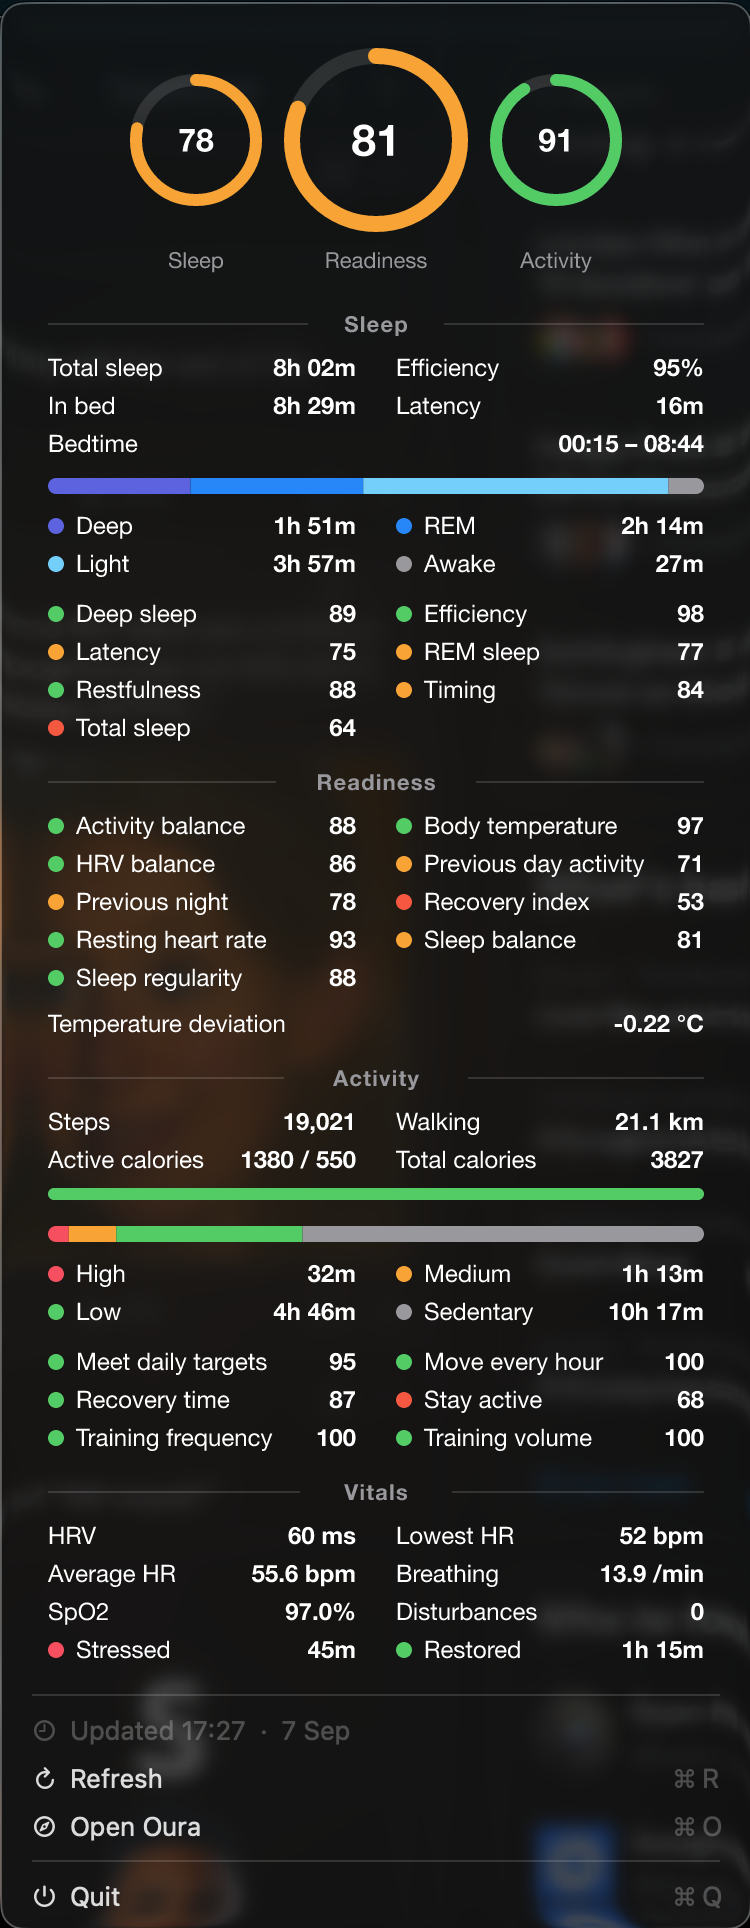
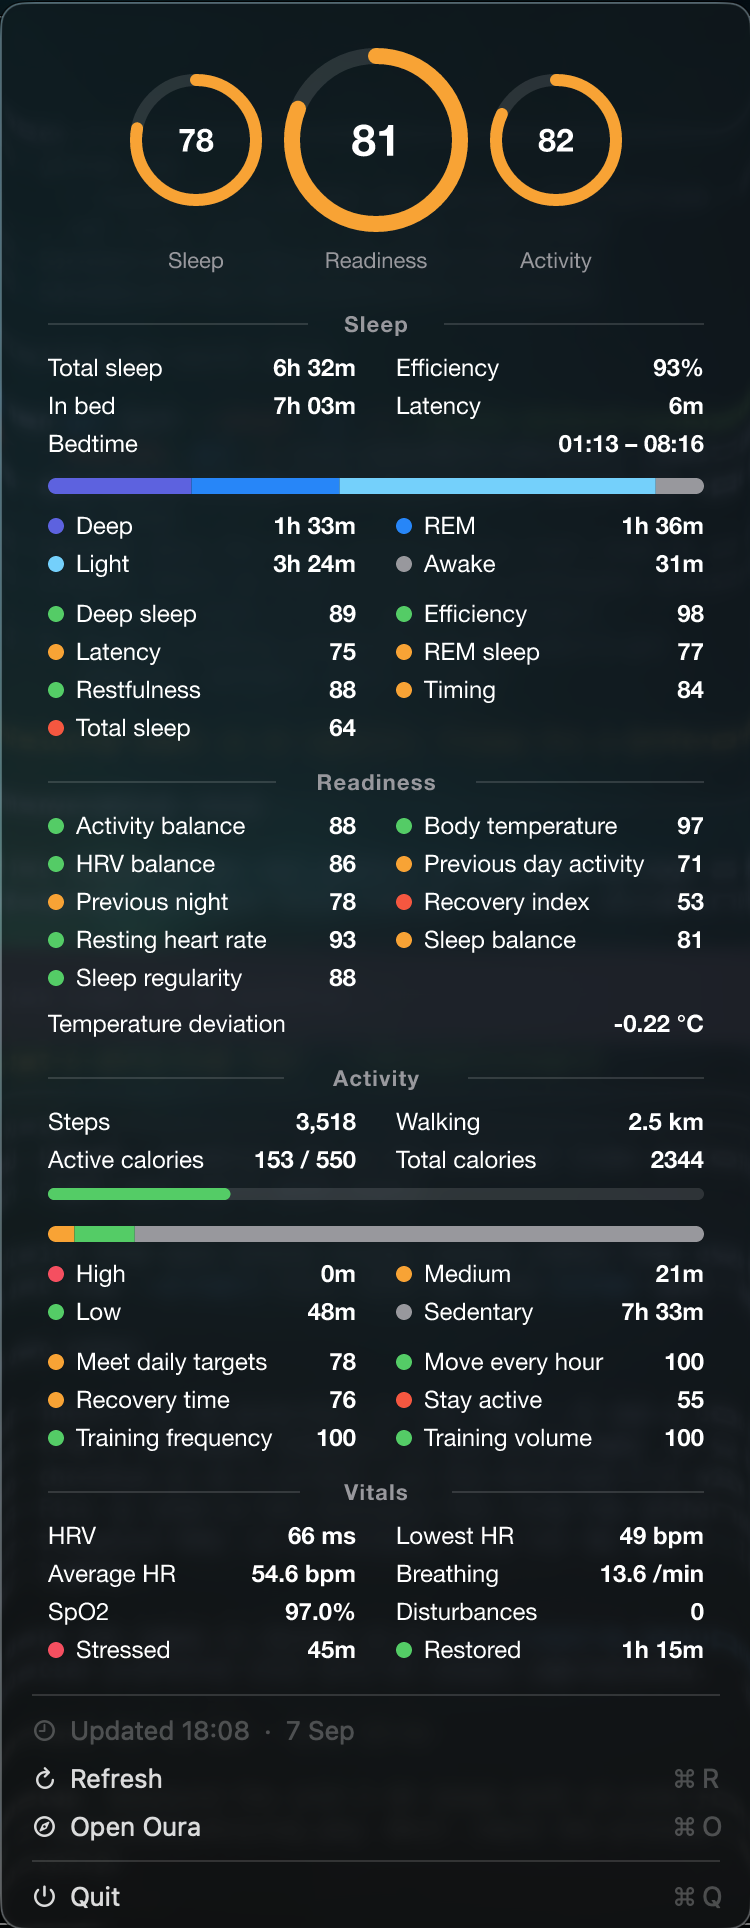
Query through tomorrow so last night's sleep and today's activity appear

diff --git a/src/stats/oura-stats.ts b/src/stats/oura-stats.ts
@@ -1,5 +1,5 @@
 import { Context, DateTime, Effect, Layer } from "effect";
-import { type DateRange, OuraApi, type OuraApiError } from "../api/oura-api";
+import { OuraApi, type OuraApiError } from "../api/oura-api";
 import {
   DailyActivity,
   DailyReadiness,
@@ -15,6 +15,7 @@ import {
   latestByDay,
   latestNight,
 } from "./daily-stats";
+import { recentRange, todayIso } from "./date-range";
 
 export interface OuraStatsShape {
   readonly latest: Effect.Effect<DailyStats, OuraApiError>;
@@ -25,21 +26,9 @@ export class OuraStats extends Context.Tag("@oura/OuraStats")<
   OuraStatsShape
 >() {}
 
-const lookbackDays = 3;
-
-const isoDate = (date: DateTime.DateTime) => {
-  const parts = DateTime.toParts(date);
-  const pad = (value: number) => String(value).padStart(2, "0");
-  return `${parts.year}-${pad(parts.month)}-${pad(parts.day)}`;
-};
-
-const recentRange = Effect.gen(function* () {
+const currentRange = Effect.gen(function* () {
   const today = yield* DateTime.nowInCurrentZone;
-  const range: DateRange = {
-    startDate: isoDate(DateTime.subtract(today, { days: lookbackDays })),
-    endDate: isoDate(today),
-  };
-  return range;
+  return { range: recentRange(today), today: todayIso(today) };
 });
 
 export const OuraStatsLive = Layer.effect(
@@ -53,7 +42,7 @@ export const OuraStatsLive = Layer.effect(
       );
 
     const latest = Effect.gen(function* () {
-      const range = yield* recentRange;
+      const { range, today } = yield* currentRange;
       const [readiness, sleep, activity, nights, spo2, stress, resilience] =
         yield* Effect.all(
           [
@@ -81,7 +70,7 @@ export const OuraStatsLive = Layer.effect(
       };
 
       const stats: DailyStats = {
-        day: dayOf(partial, range.endDate),
+        day: dayOf(partial, today),
         ...partial,
       };
       return stats;

diff --git a/tests/daily-stats.test.ts b/tests/daily-stats.test.ts
@@ -1,7 +1,8 @@
 import { describe, expect, test } from "bun:test";
-import { Option } from "effect";
+import { DateTime, Option } from "effect";
 import type { SleepPeriod } from "../src/schema/oura";
 import { dayOf, latestByDay, latestNight } from "../src/stats/daily-stats";
+import { recentRange } from "../src/stats/date-range";
 
 const night = (day: string, type: string): SleepPeriod => ({
   id: `${day}-${type}`,
@@ -66,5 +67,15 @@ describe("dayOf", () => {
       resilience: Option.none(),
     };
     expect(dayOf(empty, "2026-09-07")).toBe("2026-09-07");
+  });
+});
+
+describe("recentRange", () => {
+  test("runs from three days back through tomorrow", () => {
+    const today = DateTime.unsafeMake("2026-09-07T12:00:00Z");
+    expect(recentRange(today)).toEqual({
+      startDate: "2026-09-04",
+      endDate: "2026-09-08",
+    });
   });
 });

diff --git a/src/stats/date-range.ts b/src/stats/date-range.ts
@@ -1,0 +1,19 @@
+import { DateTime } from "effect";
+import type { DateRange } from "../api/oura-api";
+
+const lookbackDays = 3;
+
+const isoDate = (date: DateTime.DateTime) => {
+  const parts = DateTime.toParts(date);
+  const pad = (value: number) => String(value).padStart(2, "0");
+  return `${parts.year}-${pad(parts.month)}-${pad(parts.day)}`;
+};
+
+/* Oura's sleep and daily_activity collections exclude end_date, so the
+   range runs through tomorrow to include last night and today. */
+export const recentRange = (today: DateTime.DateTime): DateRange => ({
+  startDate: isoDate(DateTime.subtract(today, { days: lookbackDays })),
+  endDate: isoDate(DateTime.add(today, { days: 1 })),
+});
+
+export const todayIso = (today: DateTime.DateTime) => isoDate(today);

diff --git a/README.md b/README.md
@@ -118,6 +118,7 @@ tests/                   pure unit tests
 - **Resilience row missing.** Oura requires the `stress` scope for `daily_resilience`. Add it to the app in Oura's developer portal and to `OURA_SCOPES`, then re-run `bun run auth`.
 - **Not authenticated after a while.** Refresh tokens are single use. Running two copies of the app at once will invalidate one of them. Run `bun run auth` again.
 - **Verifying the menu from a script.** `pkill -USR1 -x OuraBar` toggles the menu open and closed, which is handy with `screencapture`.
+- **Sleep looks a day old.** Oura treats `end_date` as exclusive for the `sleep` and `daily_activity` collections, so the query range runs through tomorrow. If you change the range, keep that.
 
 ## License
 
